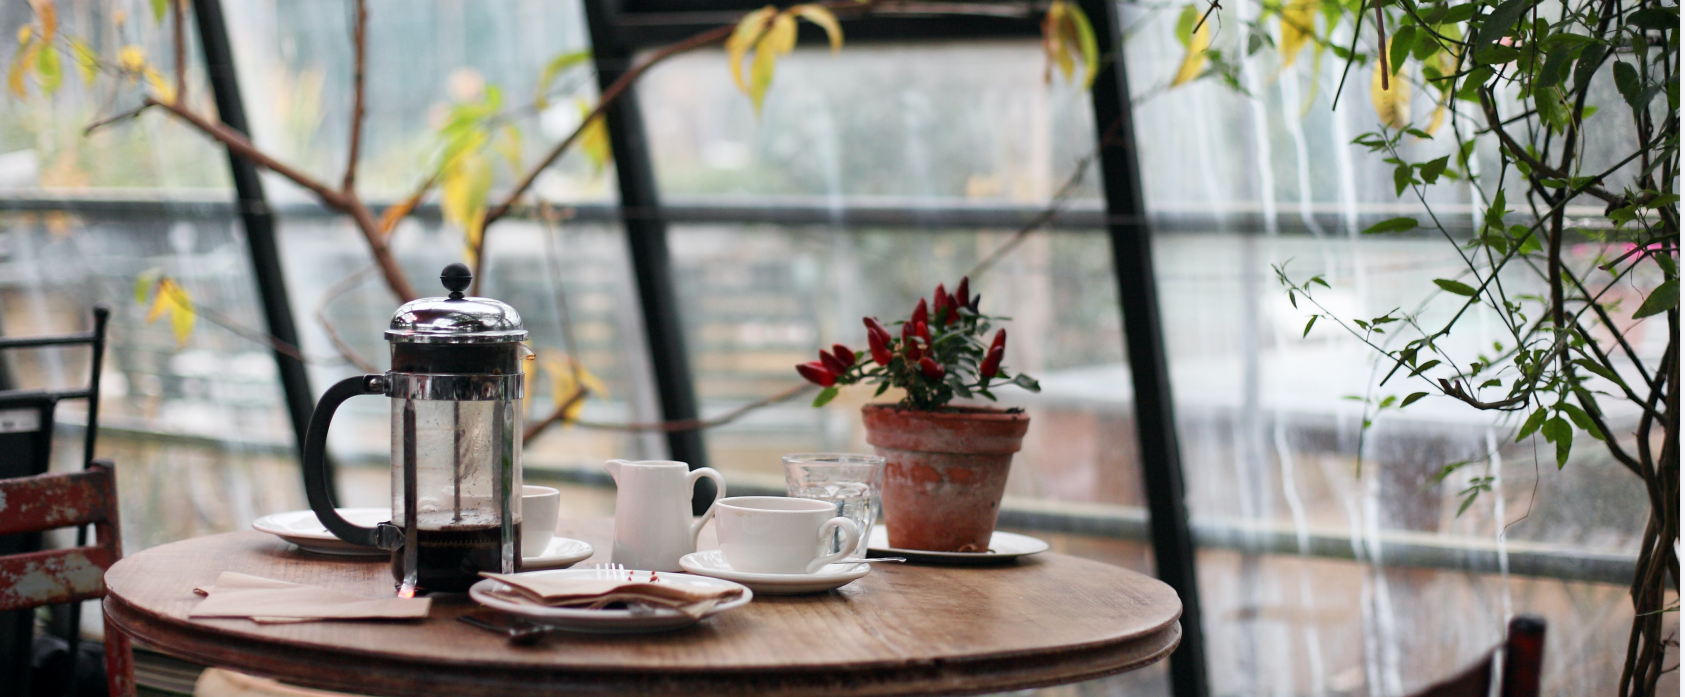
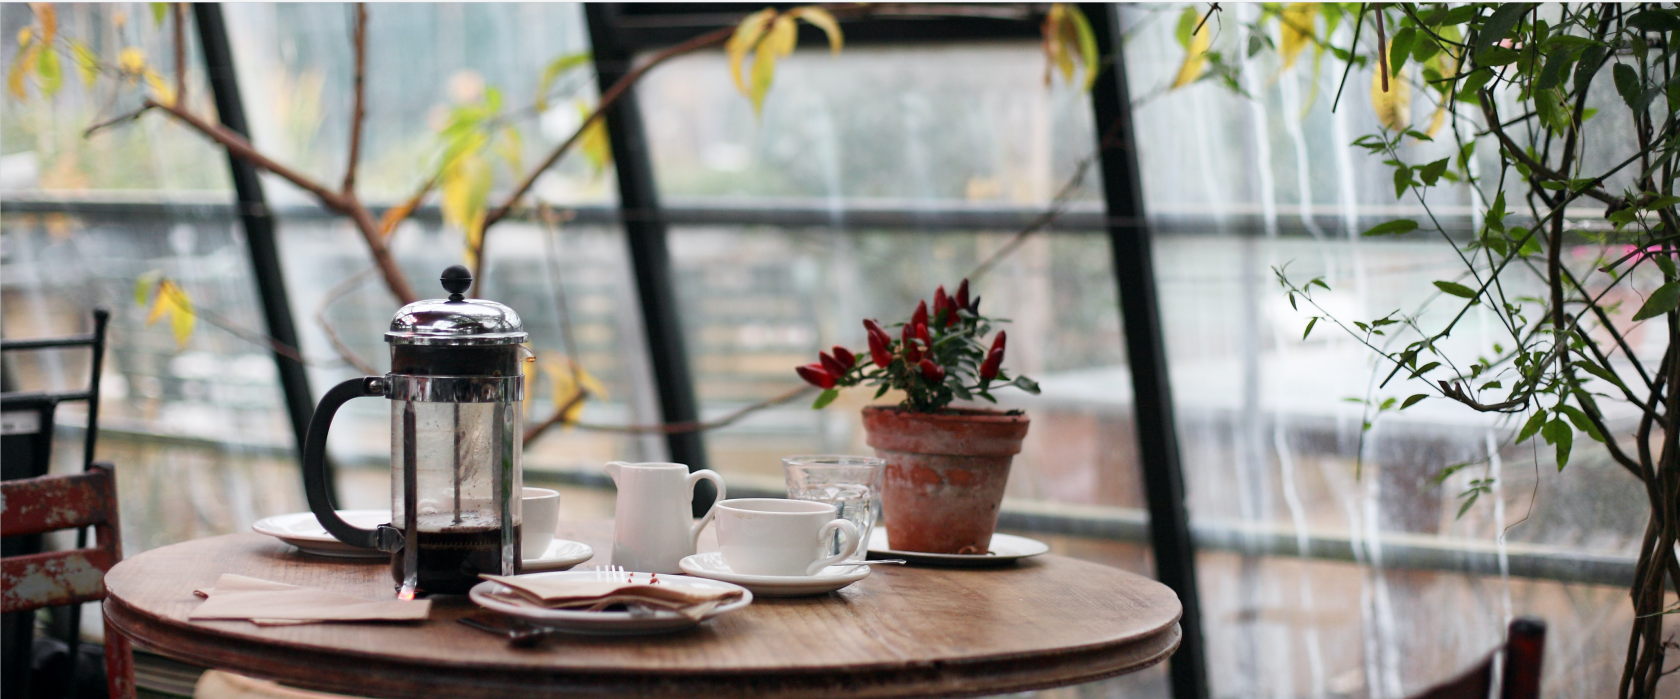
feature img compressed

diff --git a/Assignment2.html b/Assignment2.html
@@ -41,7 +41,7 @@
 
 <body>
   <div class="feature">
-    <img src="a2_feature img.png">
+    <img src="a2_feature img-min.png">
   </div> 
   
   <div class="content">
